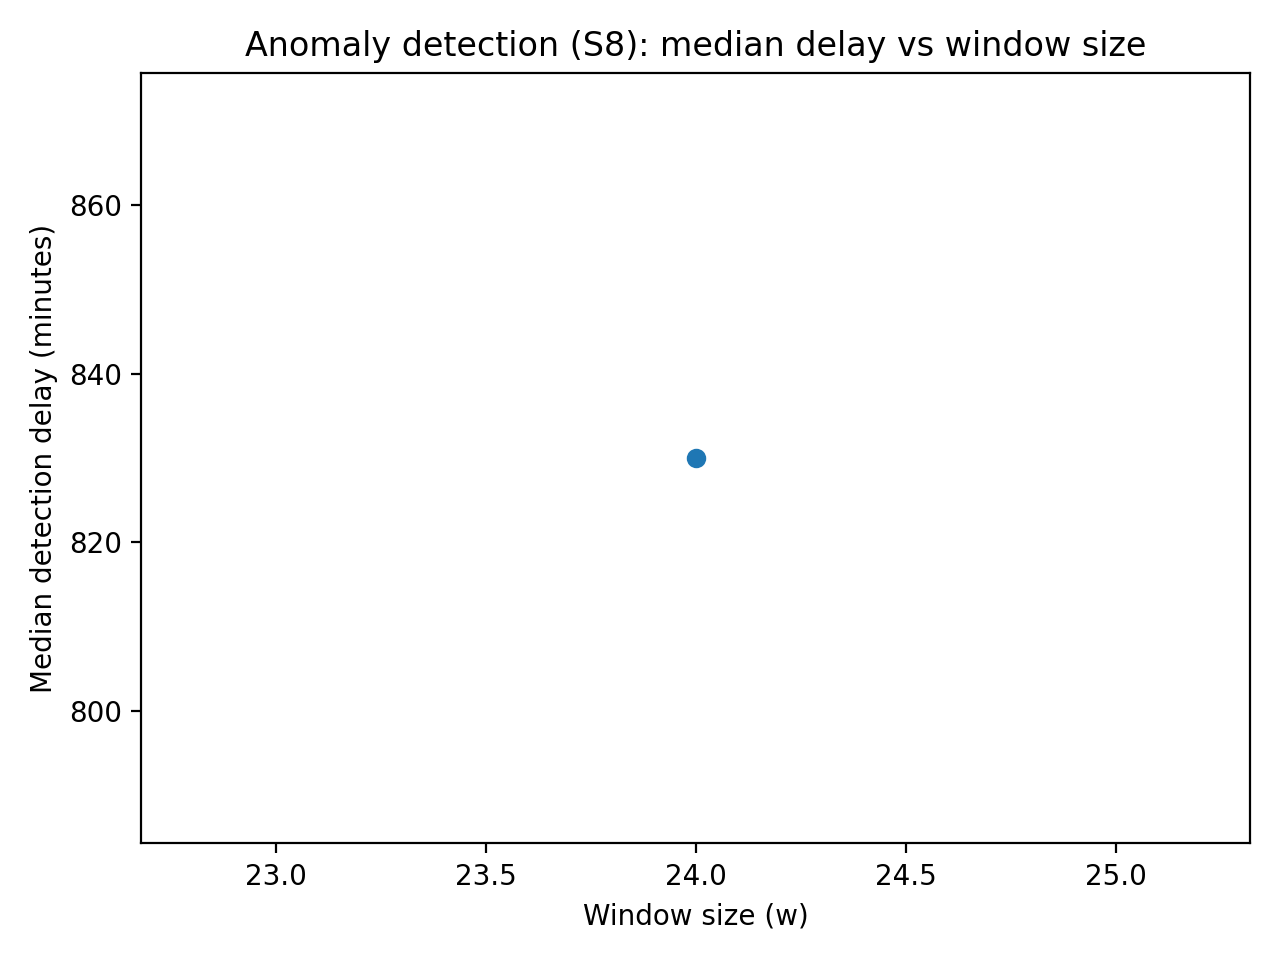
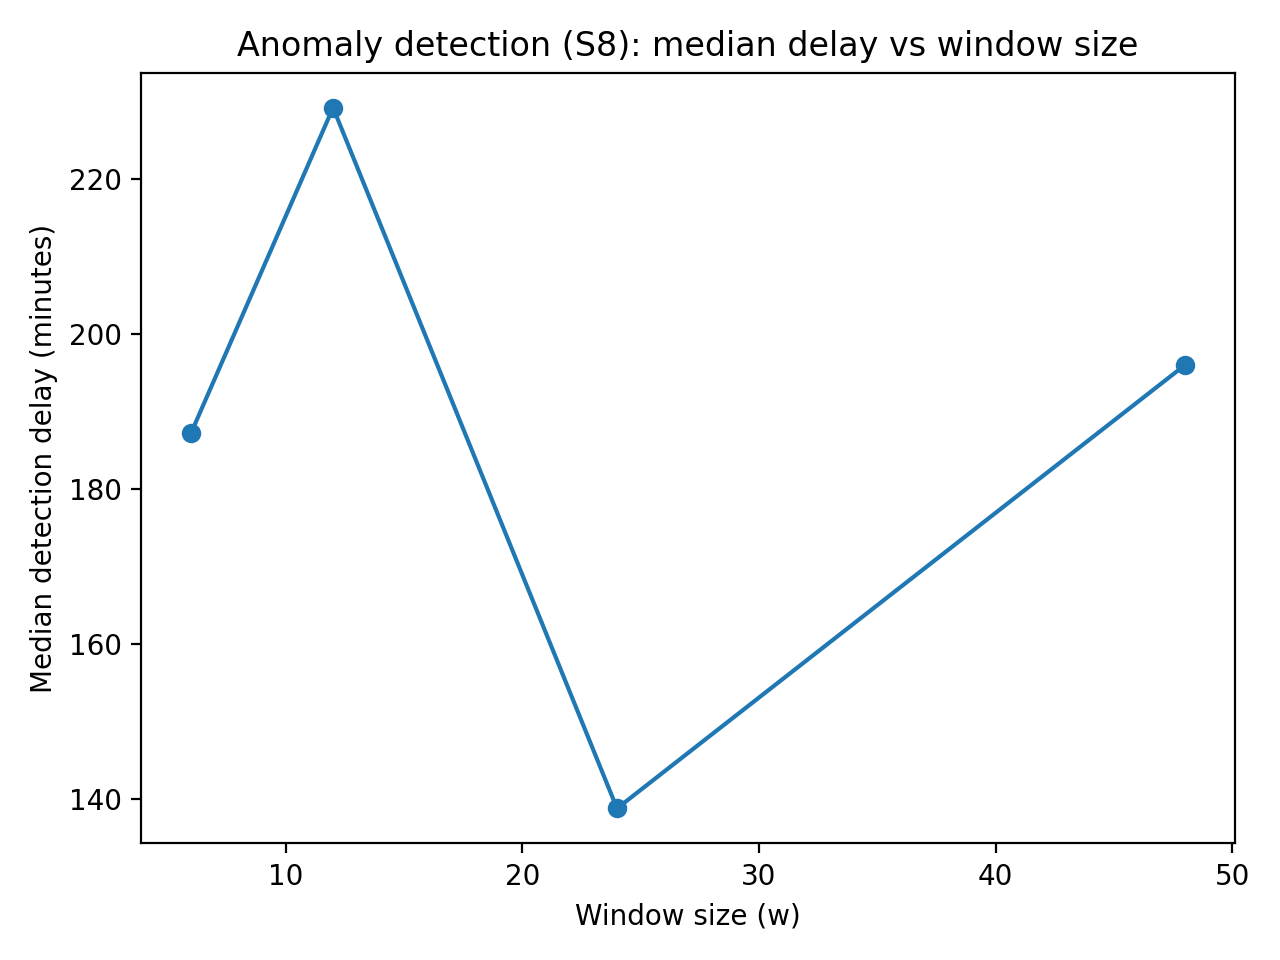
Update S8 CUSUM results, figures, and tables

diff --git a/scripts/run_edge_timegrid.py b/scripts/run_edge_timegrid.py
@@ -113,7 +113,7 @@ def main() -> None:
 
                 # CUSUM params (can tune later)
                 k = 0.5 * sigma0
-                h = 5.0 * sigma0
+                h = 10.0 * sigma0
 
                 for end_time in grid:
                     start_time = end_time - pd.Timedelta(minutes=win_minutes)

diff --git a/paper/tables/table_best_windows.md b/paper/tables/table_best_windows.md
@@ -1,5 +1,5 @@
-| scenario           |   w | target   |   precision |   recall |       f1 |   false_positives_per_day |   median_delay_minutes |   p90_delay_minutes |   p95_delay_minutes |   tp_windows |   fp_windows |   fn_events |
-|:-------------------|----:|:---------|------------:|---------:|---------:|--------------------------:|-----------------------:|--------------------:|--------------------:|-------------:|-------------:|------------:|
-| S1_missing_burst   |   6 | fault    |    0.579832 |        1 | 0.734043 |                  0.333353 |                    0   |                   0 |                   0 |          276 |          200 |           0 |
-| S3_late_arrivals   |   6 | fault    |    0.997179 |        1 | 0.998587 |                  0.11334  |                   17.5 |                 278 |                 314 |        24033 |           68 |           0 |
-| S8_efficiency_drop |  24 | anomaly  |    0        |        0 | 0        |                  3.90023  |                  830   |                 862 |                 866 |            0 |          234 |           0 |
+| scenario           |   w | target   |   precision |   recall |         f1 |   false_positives_per_day |   median_delay_minutes |   p90_delay_minutes |   p95_delay_minutes |   tp_windows |   fp_windows |   fn_events |
+|:-------------------|----:|:---------|------------:|---------:|-----------:|--------------------------:|-----------------------:|--------------------:|--------------------:|-------------:|-------------:|------------:|
+| S1_missing_burst   |   6 | fault    |  0.579832   | 1        | 0.734043   |                  0.333353 |                   0    |                0    |               0     |          276 |          200 |           0 |
+| S3_late_arrivals   |   6 | fault    |  0.997179   | 1        | 0.998587   |                  0.11334  |                  17.5  |              278    |             314     |        24033 |           68 |           0 |
+| S8_efficiency_drop |   6 | anomaly  |  0.00196664 | 0.466195 | 0.00391471 |                175.56     |                 187.25 |              261.85 |             271.175 |          208 |       105330 |           0 |
